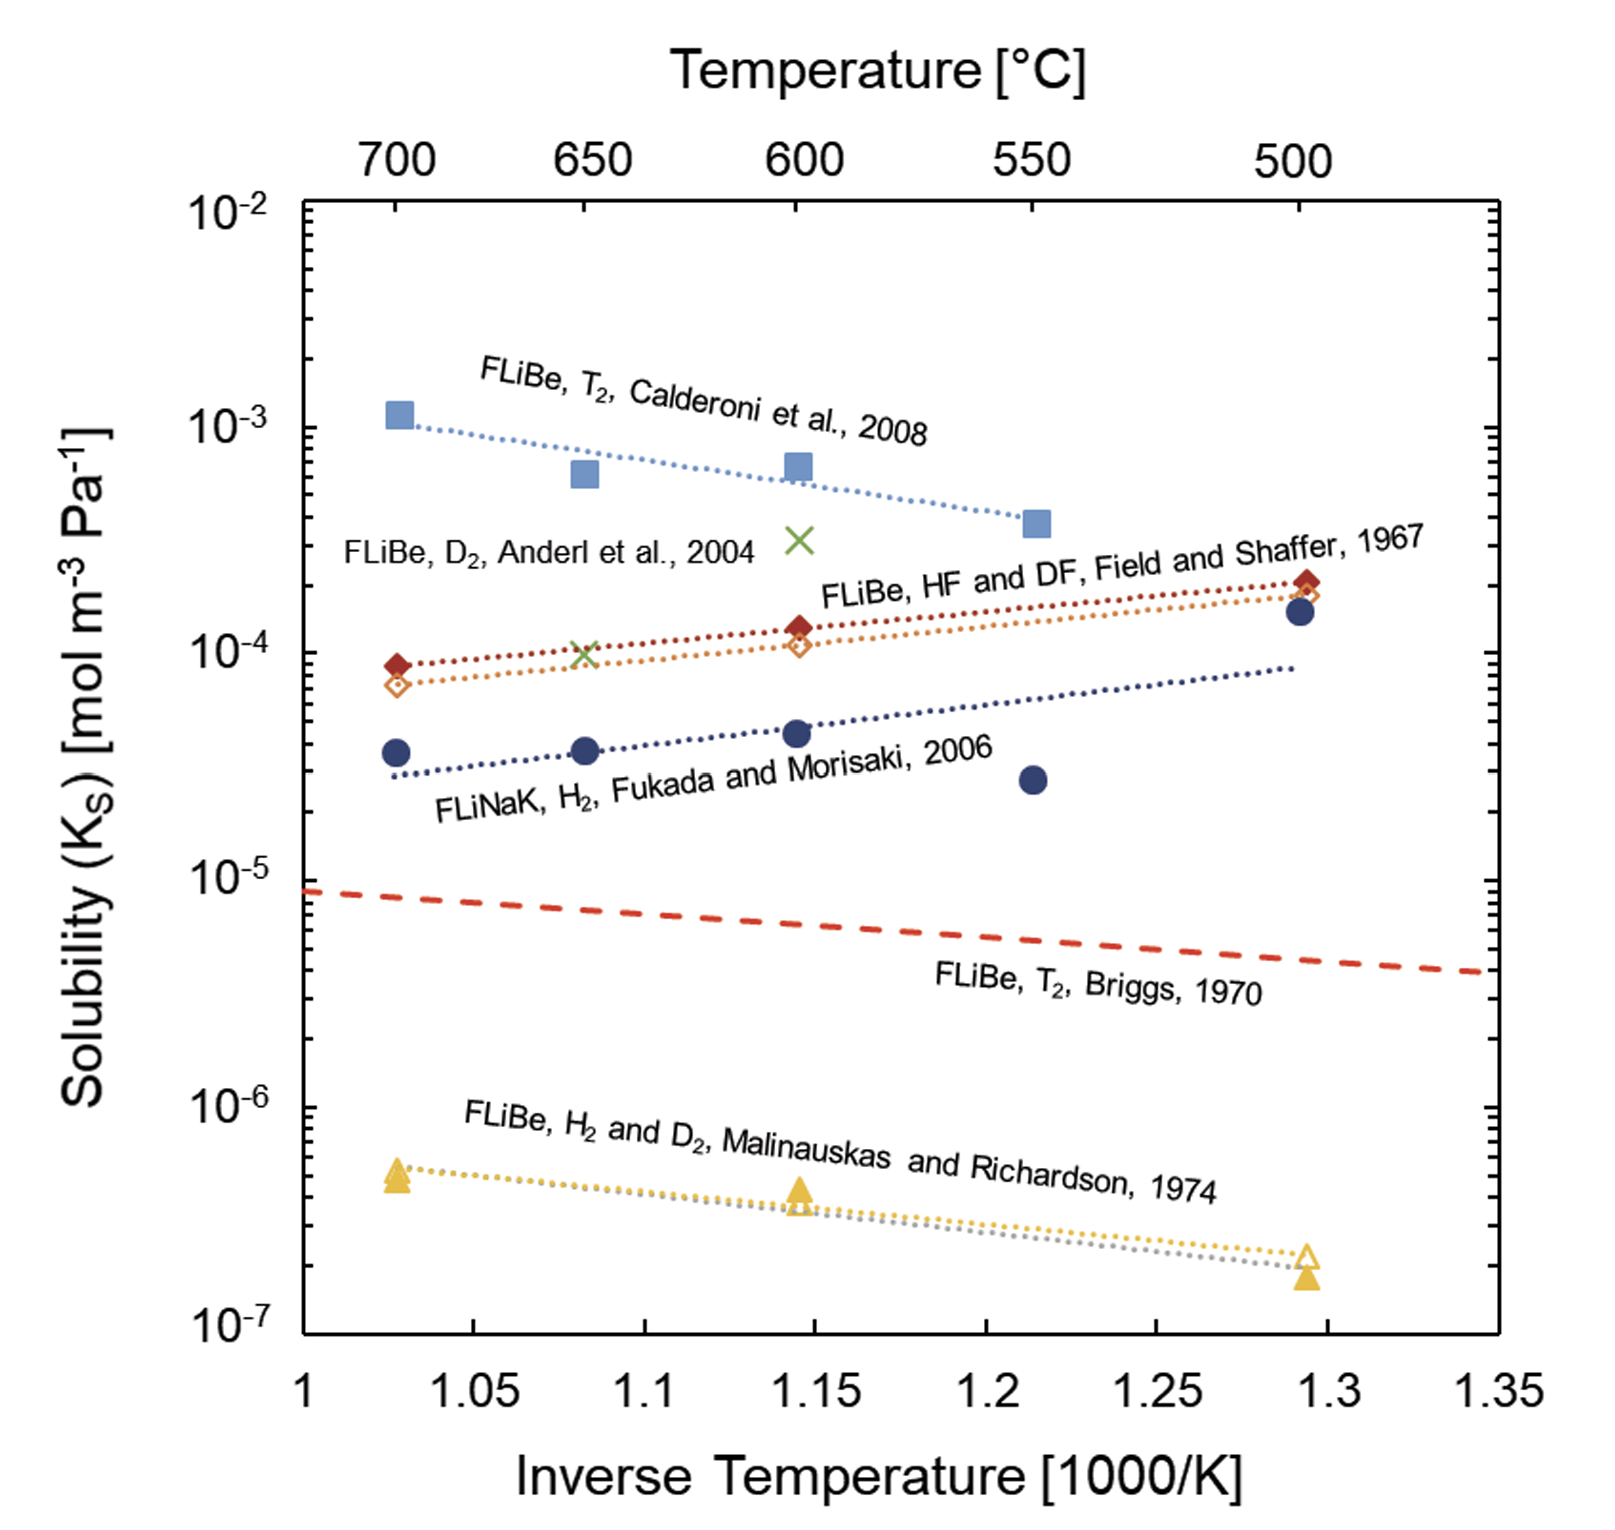
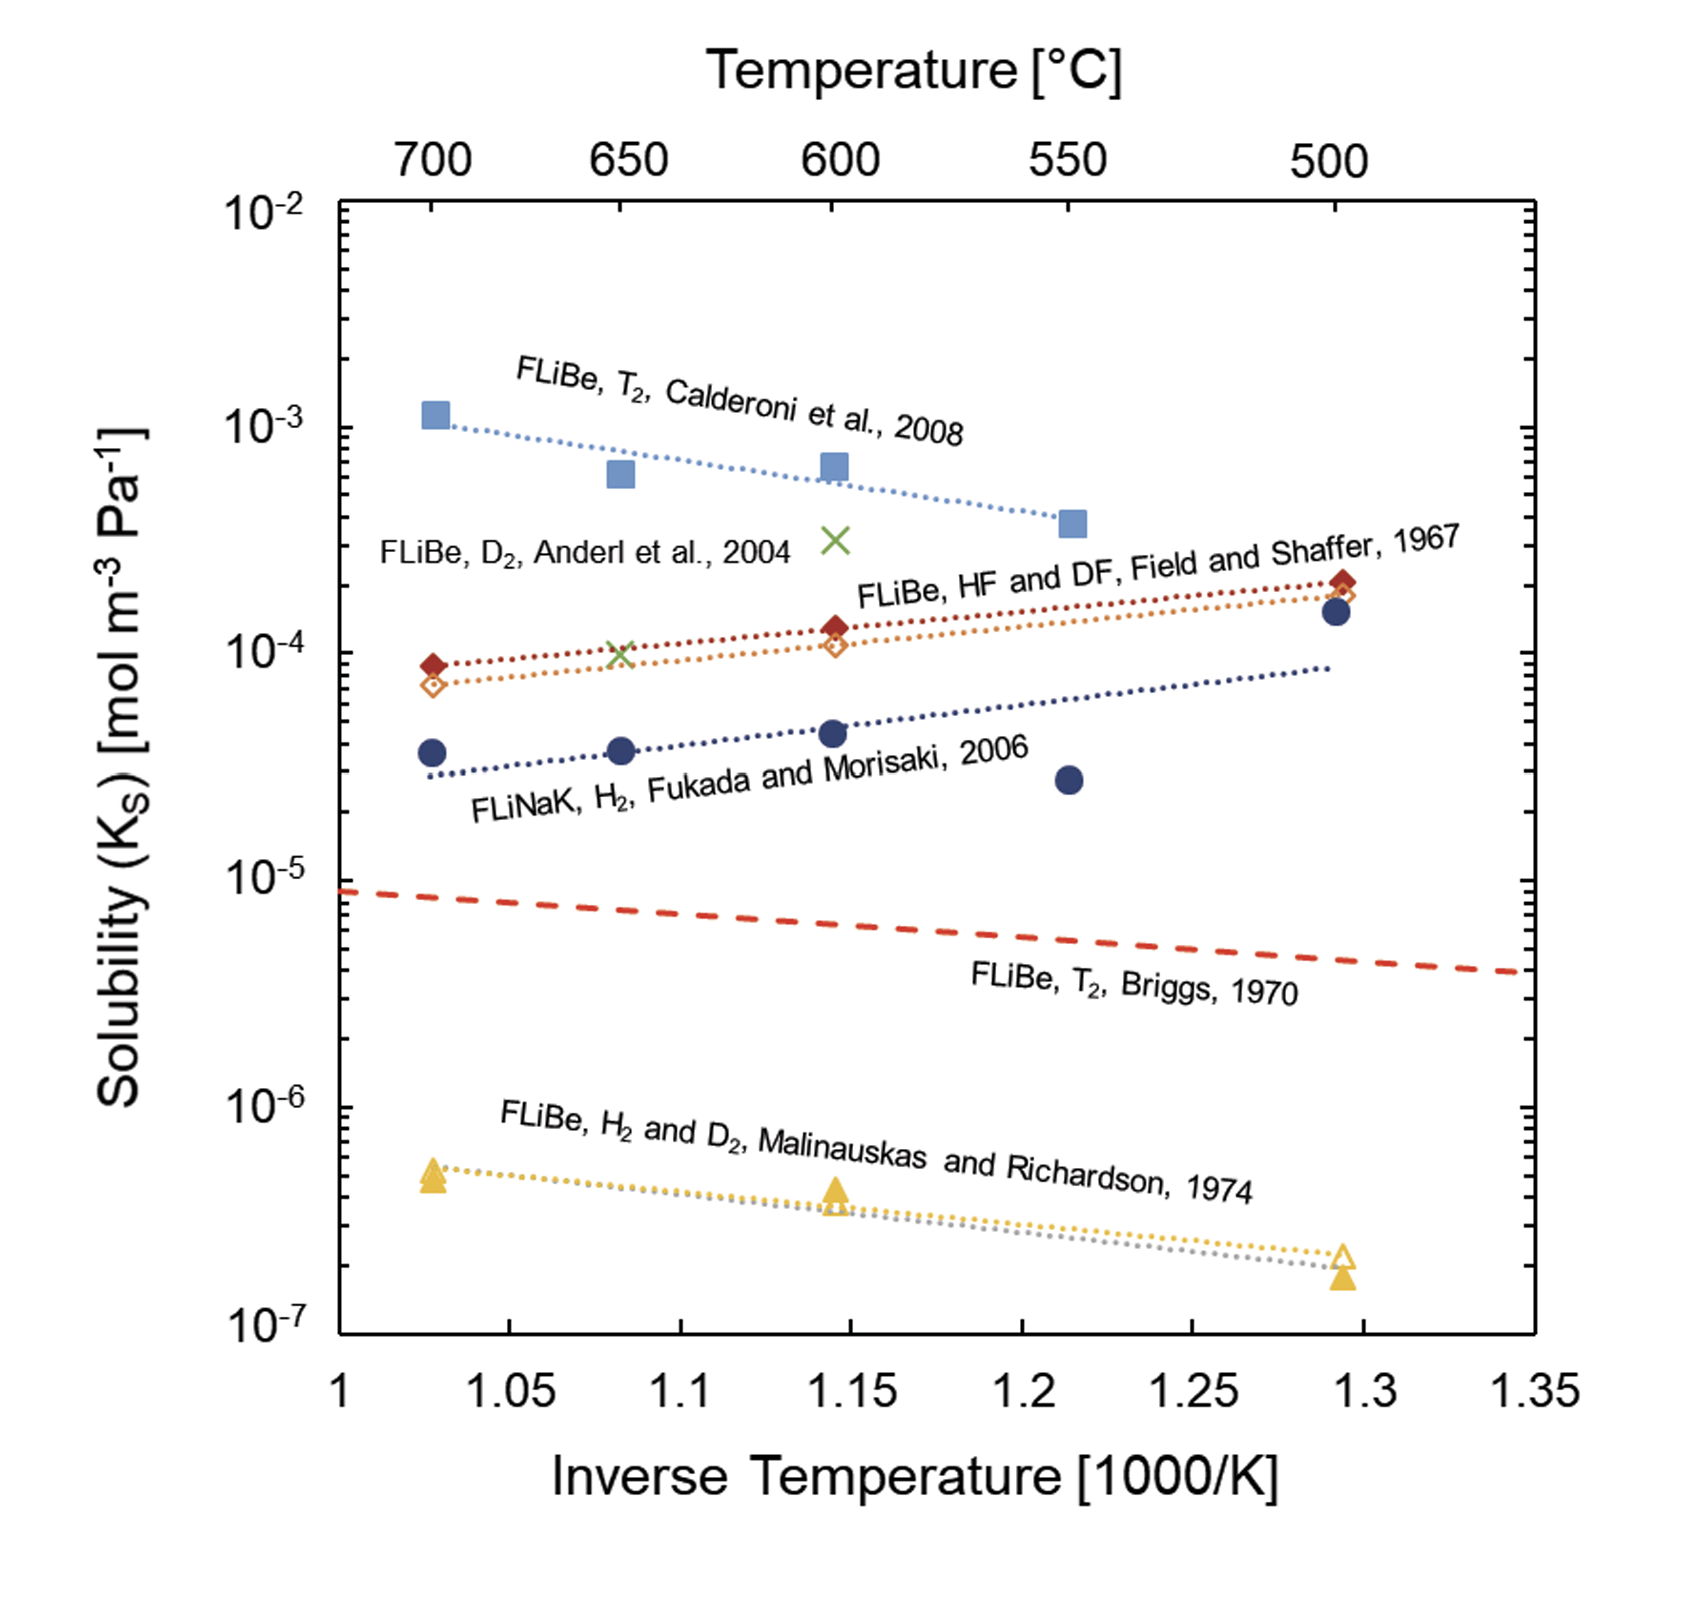
corrections

diff --git a/thesis.tex b/thesis.tex
@@ -928,23 +928,15 @@ The resulting system is assembled by DOLFINx and solved with a Newton method at 
 
 \input{convergence_table}
 
-\todo{review, move some stuff to appendix, make it shorter}
-The extraction time is not read directly from the simulated inventory but obtained by fitting an exponential decay to $\NT(t)$ over the window $[0,2\tau]$, and that fitted value carries a systematic error inherited from the time discretisation. The ARD equations being linear, once the initial transient has died out the space-discretised inventory relaxes along its slowest eigenmode $\dotNT=-\NT/\tau$; advancing it with the backward Euler scheme of the solver gives the geometric sequence $\NT^{k}=\NT^{0}(1+\Delta t/\tau)^{-k}$, so the discrete solution is still \emph{exactly} exponential, only with a modified time constant $\tau_\Delta$ such that $1/\tau_\Delta=\ln(1+x)/\Delta t$, writing $x\equiv\Delta t/\tau$. Expanding for $x\ll1$:
-\begin{equation}
-\label{eq:tau_delta_expansion}
-    \frac{\tau_\Delta}{\tau}=\frac{x}{\ln(1+x)}=1+\frac{x}{2}-\frac{x^{2}}{12}+O(x^{3})
-    \qquad \Longrightarrow \qquad
-    \tau_\Delta \simeq \tau+\frac{\Delta t}{2}
-\end{equation}
-The discretisation error on $\tau$ is therefore systematic rather than statistical: the fit itself contributes no scatter, since the numerical inventory is an exact exponential and the fit returns $\tau_\Delta$ rather than an estimate of it, and its sign is fixed because $x/\ln(1+x)>1$ for all $x>0$, so backward Euler always over-estimates the extraction time, by
+It can be shown that this discretisation error is \textbf{systematic rather than statistical}: the backward Euler scheme reproduces the inventory decay as an exact exponential, only with a time constant $\tau_\Delta\simeq\tau+\frac{\Delta t}{2}$, so it always over-estimates the extraction time by
 \begin{equation}
 \label{eq:e_delta}
     e_\Delta \equiv \frac{\tau_\Delta-\tau}{\tau}\simeq\frac{\Delta t}{2\,\tau}
 \end{equation}
-which is first order in $\Delta t$ and independent of the operating point, since it only involves the ratio of the time step to the extraction time being measured.
+which is first order in $\Delta t$ and independent of the operating point, since it only involves the ratio of the time step to the extraction time being measured. A short proof is given in \cref{app:dt_bias}. Being systematic, this bias can be subtracted rather than merely bounded, and every comparison of a fitted extraction time against the analytical solution in the following chapters is made on $\tau_\Delta-\frac{\Delta t}{2}$, so that what is left is the model error alone.
 
 
-A spatial and temporal convergence study of the LIBRA Pi case (\cref{tab:libra_pi_inputs}) was performed, it is shown in \cref{fig:convergence}. The corresponding results are reported in \cref{tab:convergence_gci}. The observed order of convergence is $0.998$ in time and $1.999$ in space, as expected of a backward Euler scheme and of P1 elements, and the measured ratio $e_\Delta/(\Delta t/\tau)$ is $0.501$. On the finest discretisations the Roache grid convergence index is $0.157\ \%$ in time and $1.2\times10^{-6}\ \%$ in space, suggesting that \textbf{the total discretisation error on $\tau$ is entirely set by the time step through \cref{eq:e_delta}, and the mesh contributes nothing}.
+A spatial and temporal convergence study of the LIBRA Pi case (\cref{tab:model_input}) was performed, it is shown in \cref{fig:convergence}. The corresponding results are reported in \cref{tab:convergence_gci}. The observed order of convergence is $0.998$ in time and $1.999$ in space, as expected of a backward Euler scheme and of P1 elements, and the measured ratio $e_\Delta/(\Delta t/\tau)$ is $0.501$. On the finest discretisations the Roache grid convergence index is $0.157\ \%$ in time and $1.2\times10^{-6}\ \%$ in space, suggesting that \textbf{the total discretisation error on $\tau$ is entirely set by the time step through \cref{eq:e_delta}, and the mesh contributes nothing}.
 
 The fact that the mesh contributes nothing can be explained by the intrinsic spatial dynamics of the ARD equations. The liquid phase has no advective term (\cref{eq:ARD_CT}), so no Peclet number can be defined for it. The liquid $E_l$ never sets the requirement, for the simple reason that dispersion only smooths, so the concentration profile can never be sharper than the interfacial source term $a\,h_l\,(\langle\CT\rangle^l-K_s\PT)$ that forces it. That term carries the gas phase length scales in \PT and $a\,h_l$: the length scale of the prior is dictated by the ratio $\frac{u_g}{E_g}$; the latter varies smoothly with hydrostatic pressure and is therefore described well enough by a coarse mesh. The limiting case $E_l\rightarrow0$, where each height decouples and the liquid simply inherits the gas profile, is therefore the worst case, and it is still governed by the gas. Therefore, \textbf{the spatial dynamics of the ARD equations are dictated by the gas phase characteristics only}, through the ratio $\frac{u_g}{E_g}$, suggesting that the mesh size should be index on the gas phase Peclet number $\mathrm{Pe}\equiv\frac{u_g\Delta x}{E_g}$. In the LIBRA Pi case, bubbles don't saturate much (relatively low \PI), the \PT profile is therefore smooth enough to be well described by even a coarse mesh that has a $\mathrm{Pe=2}$, explaining why the \textbf{temporal discretization error dominates the total discretization error}. Still, it should be noted that more extreme cases (e.g. high bubble saturation and poor mixing ) might lead to sharper \PT profile, requiring a lower Pe.
 
@@ -1097,11 +1089,12 @@ In this regime, the extraction time follows $\tau\approx \tau_\mathrm{SPP}\cdot\
 The mass transfer process is throttled by the gas throughput at the outlet, \textbf{extraction time increases with tritium solubility and becomes independent of tritium diffusivity}. Here, temperature primarily drives $K_s$ (exponentially, see \cref{tab:correlations}), thus \textbf{increasing $T$ is counter-productive in PPL}. \textbf{Extraction performances is mainly driven by the sparging gas flow rate \ndotg}, mediated by $u_g$. 
 
 \begin{keyresult}
-    \centering
-    \textbf{\PI  conditions the extraction power of individual bubbles}:\\
-    \PI<0.1 (MTL) $\Rightarrow$ most efficient extraction, high $T$ desirable \\
-    \PI>5 (PPL)  $\Rightarrow$ extraction throttled by saturation, need low $T$ and high \ndotg \\
-    in-between $\Rightarrow$ sub-optimal extraction, operating parameters compete with each other
+    \textbf{\PI  conditions the extraction power of individual bubbles}:
+    \begin{align*}
+    &\PI<0.1 \ \text{(MTL)} \Rightarrow \text{most efficient extraction, high $T$ desirable} \\
+    &\PI>5 \ \text{(PPL)} \Rightarrow \text{extraction throttled by saturation, need low $T$ and high \ndotg} \\
+    &0.1<\PI<5 \Rightarrow \text{sub-optimal extraction, operating parameters compete with each other}
+    \end{align*}
 \end{keyresult}
 
 \subsection{Impact of mixing}
@@ -1146,7 +1139,6 @@ The partial pressure panel of \cref{fig:stratified} separates the two assumption
 \begin{keyresult}
     \textbf{\Gmix  conditions the accuracy of the analytical solution}:
     \begin{align*}
-    &\mathrm{\Gmix \ conditions\ the\ accuracy\ of\ the\ analytical\ solution:}\\
     &\Gmix<0.1 \Rightarrow \text{exponential decay} \\
     &\Gmix>0.1 \ \text{AND} \ \big(\PI>0.1 \ \text{OR} \ \Gp>0.1\big)\Rightarrow \text{non-exponential decay} \\
     &\qquad \text{case} \ \PI<0.1 \ \text{AND} \ \Gp>0.1 \Rightarrow \Tnum>\Tana \ \text{(slower extraction)}\\ 
@@ -1824,6 +1816,26 @@ This exact general form behaves as expected in both limit regimes:
     \item $\langle\Pi\rangle\ll1$ (SPP regime): the exponential weight is unity over the whole column, every height contributes equally to the transfer and $\tau\rightarrow\frac{\langle \varepsilon_l \rangle}{\langle a\,h_l \rangle}=\tau_\mathrm{SPP}$, consistently with \cref{eq:tau_SPP} and without requiring any further assumption;
     \item $\langle\Pi\rangle\gg1$ (PPL regime): the weight collapses onto the top of the column, the bubbles leave saturated at $\PT(H)=\frac{\langle\CT\rangle^l}{K_s}$ and $\tau\rightarrow\frac{\langle \varepsilon_l \rangle\,H\,R\,T\,K_s}{u_g(H)}$, i.e. the extraction is throttled by the gas throughput at the outlet rather than by the interfacial mass transfer.
 \end{itemize}
+
+%%%%%%%%%%%%%%%%%%%%%%%%%%%%%%%%%%%%%%
+\chapter{Systematic bias of the backward Euler scheme on the extraction time}
+\label{app:dt_bias}
+%%%%%%%%%%%%%%%%%%%%%%%%%%%%%%%%%%%%%%
+
+This appendix proves the result used in \cref{sec:numerical_error}: the time discretisation shifts the fitted extraction time by $\frac{\Delta t}{2}$, always in the same direction.
+
+The extraction time is not read directly from the simulated inventory but obtained by fitting an exponential decay to $\NT(t)$ over the window $[0,2\tau]$, and that fitted value carries a systematic error inherited from the time discretisation. The ARD equations being linear, once the initial transient has died out the space-discretised inventory relaxes along its slowest eigenmode $\dotNT=-\NT/\tau$; advancing it with the backward Euler scheme of the solver gives the geometric sequence $\NT^{k}=\NT^{0}(1+\Delta t/\tau)^{-k}$, so the discrete solution is still \emph{exactly} exponential, only with a modified time constant $\tau_\Delta$ such that $1/\tau_\Delta=\ln(1+x)/\Delta t$, writing $x\equiv\Delta t/\tau$. Expanding for $x\ll1$:
+\begin{equation}
+\label{eq:tau_delta_expansion}
+    \frac{\tau_\Delta}{\tau}=\frac{x}{\ln(1+x)}=1+\frac{x}{2}-\frac{x^{2}}{12}+O(x^{3})
+    \qquad \Longrightarrow \qquad
+    \tau_\Delta \simeq \tau+\frac{\Delta t}{2}
+\end{equation}
+The discretisation error on $\tau$ is therefore systematic rather than statistical: the fit itself contributes no scatter, since the numerical inventory is an exact exponential and the fit returns $\tau_\Delta$ rather than an estimate of it, and its sign is fixed because $x/\ln(1+x)>1$ for all $x>0$, so backward Euler always over-estimates the extraction time, by
+\begin{equation*}
+    e_\Delta \equiv \frac{\tau_\Delta-\tau}{\tau}\simeq\frac{\Delta t}{2\,\tau}
+\end{equation*}
+which is \cref{eq:e_delta}.
 
 %%%%%%%%%%%%%%%%%%%%%%%%%%%%%%%%%%%%%%
 \chapter{Permeation transient simulations}

diff --git a/diag_resistances.tex b/diag_resistances.tex
@@ -24,6 +24,8 @@
 % holds what it stores, which is the retention result
 \filldraw[tank, fill=black!8, dashed, draw=black!50] (5.85,-0.20) rectangle (8.25,2.30);
 \node[anchor=north west] at (5.95,2.22) {\textbf{wall}};
+\draw[wire] (6.35,1.5) -- (6.58,1.5);
+\draw[wire] (7.72,1.5) -- (7.95,1.5);
 \node[res, minimum width=1.15cm, minimum height=0.55cm] at (7.15,1.5) {$R_2$};
 \node[note, anchor=south, align=center] at (7.05,2.40) {$R_2$, diffusion in\\inconel, fast};
 % the parallel capacitor: the inventory the wall holds instead of passing on
@@ -33,13 +35,14 @@
 \draw[wire] (7.33,0.80) -- (7.95,0.80);
 \draw[line width=1.1pt, black!65] (6.97,0.48) -- (6.97,1.12);
 \draw[line width=1.1pt, black!65] (7.33,0.48) -- (7.33,1.12);
-\node[note, anchor=north] at (7.15,0.26) {stored};
+\node[note, anchor=north] at (7.15,0.36) {stored};
 
 % ---- sparging, straight out of the salt ------------------------------------------------ %
-\draw[wire, ->] (1.25,3.0) -- (1.25,4.75);
-\node[res, fill=white, rotate=90] at (1.25,3.62) {$R_0$};
-\node[val, anchor=west] at (1.62,3.62) {$R_0\propto\tau$};
-\node[sink, fill=black!4, minimum width=2.7cm] at (1.25,5.28)
+\draw[wire, ->] (1.25,3.0) -- (1.25,4.85);
+\node[res, fill=white, rotate=90, minimum width=1.1cm, minimum height=0.55cm]
+    at (1.25,3.90) {$R_0$};
+\node[val, anchor=west] at (1.60,3.90) {$R_0\propto\tau$};
+\node[sink, fill=black!4, minimum width=2.7cm] at (1.25,5.38)
     {extracted by sparging};
 
 % ---- R1: salt to wall, the one that decides how much permeates -------------------------- %
@@ -60,7 +63,7 @@
 \draw[wire] (8.55,0.65) -- (8.85,0.65);
 \draw[wire, ->] (10.35,0.65) -- (11.0,0.65);
 \node[res, fill=white] at (9.6,0.65) {$R_4$};
-\node[val, anchor=north] at (9.6,0.30) {spacer ribs, set by $\chi$};
+\node[val, anchor=north] at (9.95,0.30) {spacer ribs, set by $\chi$};
 
 \node[sink, fill=black!4] at (12.15,2.35) {collected\\in the OV gas};
 \node[sink, fill=black!4, draw=red!70!black] at (12.15,0.65)

diff --git a/tab_design_map.tex b/tab_design_map.tex
@@ -1,5 +1,7 @@
 \begin{table}[htbp]
+    \centering
     \small
+    \setlength{\tabcolsep}{3pt}
     \renewcommand{\arraystretch}{1.35}
     \caption{Decision table covering the 8 regimes a sparging system can fall in. The upper block is where the analytical solution is accurate to $\pm5\%$, i.e. where at most one assumption is violated; in the lower block it is no longer reliable and the numerical model is required, the entry then indicating whether the extraction is faster or slower than \Tana predicts.}
     \label{tab:design_map}
@@ -15,7 +17,7 @@
         \midrule
         \multicolumn{6}{@{}l}{\textit{\textbf{Analytical solution unreliable, use the numerical model}}} \\
         4 & 1 & 0 & 0 & $<\Tana$ & $a\nearrow$, $\PT\searrow$ as bubbles expand \\
-        6 & 0 & 1 & 0 & $<\Tana$ & PPL regime, plug-flow-like liquid, non-exponential decay \\
+        6 & 0 & 1 & 0 & $<\Tana$ & PPL regime, plug-flow liquid, non-exponential decay \\
         7 & 0 & 0 & 1 & $>\Tana$ & MTL regime, profiles stabilize to minimize $a\JT$ \\
         8 & 0 & 0 & 0 & $\ll\Tana$ & both effects combined, non-exponential decay \\
         \bottomrule
